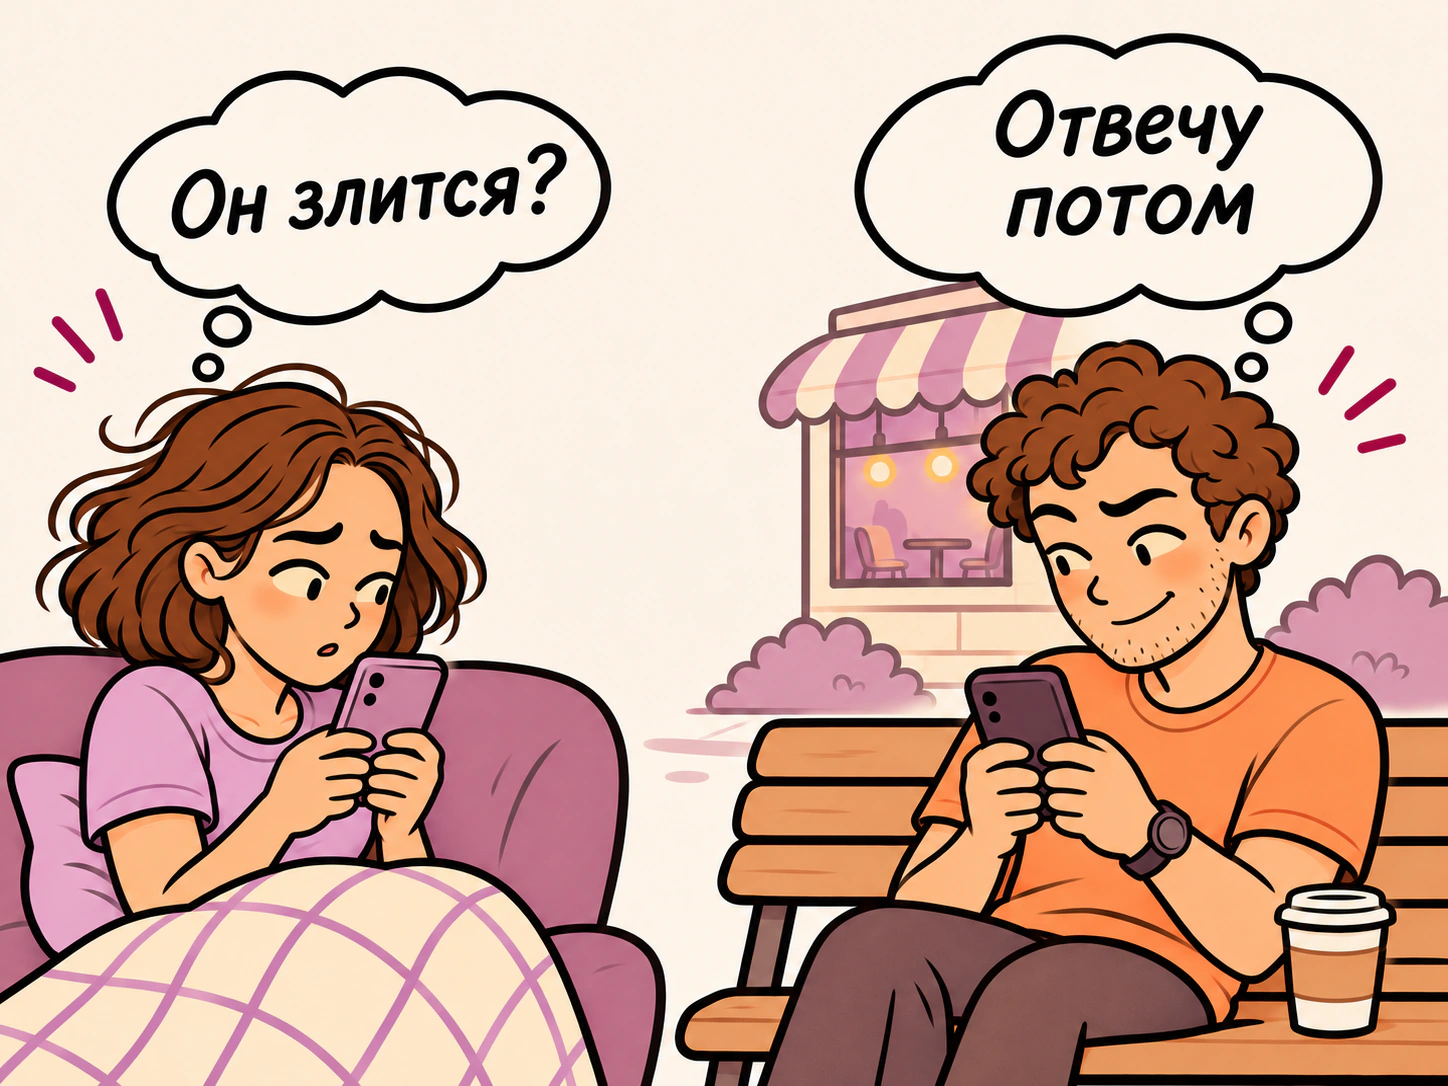
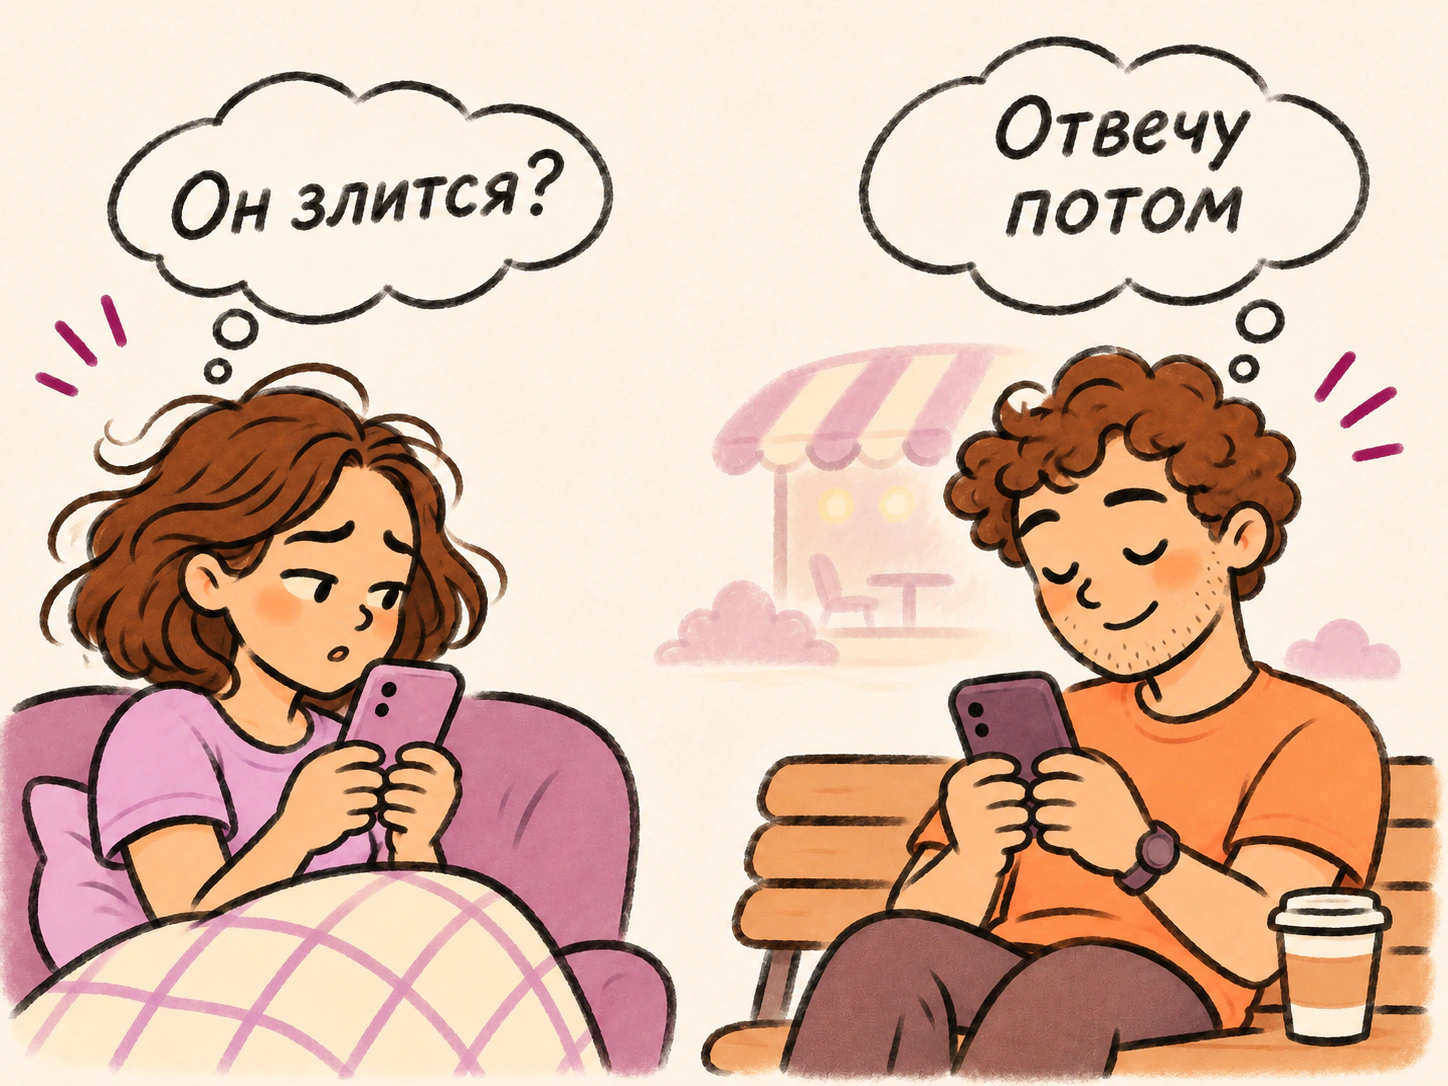
Unify home and invitation illustrations

diff --git a/app/story.tsx b/app/story.tsx
@@ -7,7 +7,7 @@ const artwork = {
     names: [353, 188],
     question: [366, 169],
     waiting: [420, 194],
-    invite: [420, 316],
+    invite: [1448, 1086],
     result: [424, 193],
     checkout: [422, 214],
     report: [422, 196],
